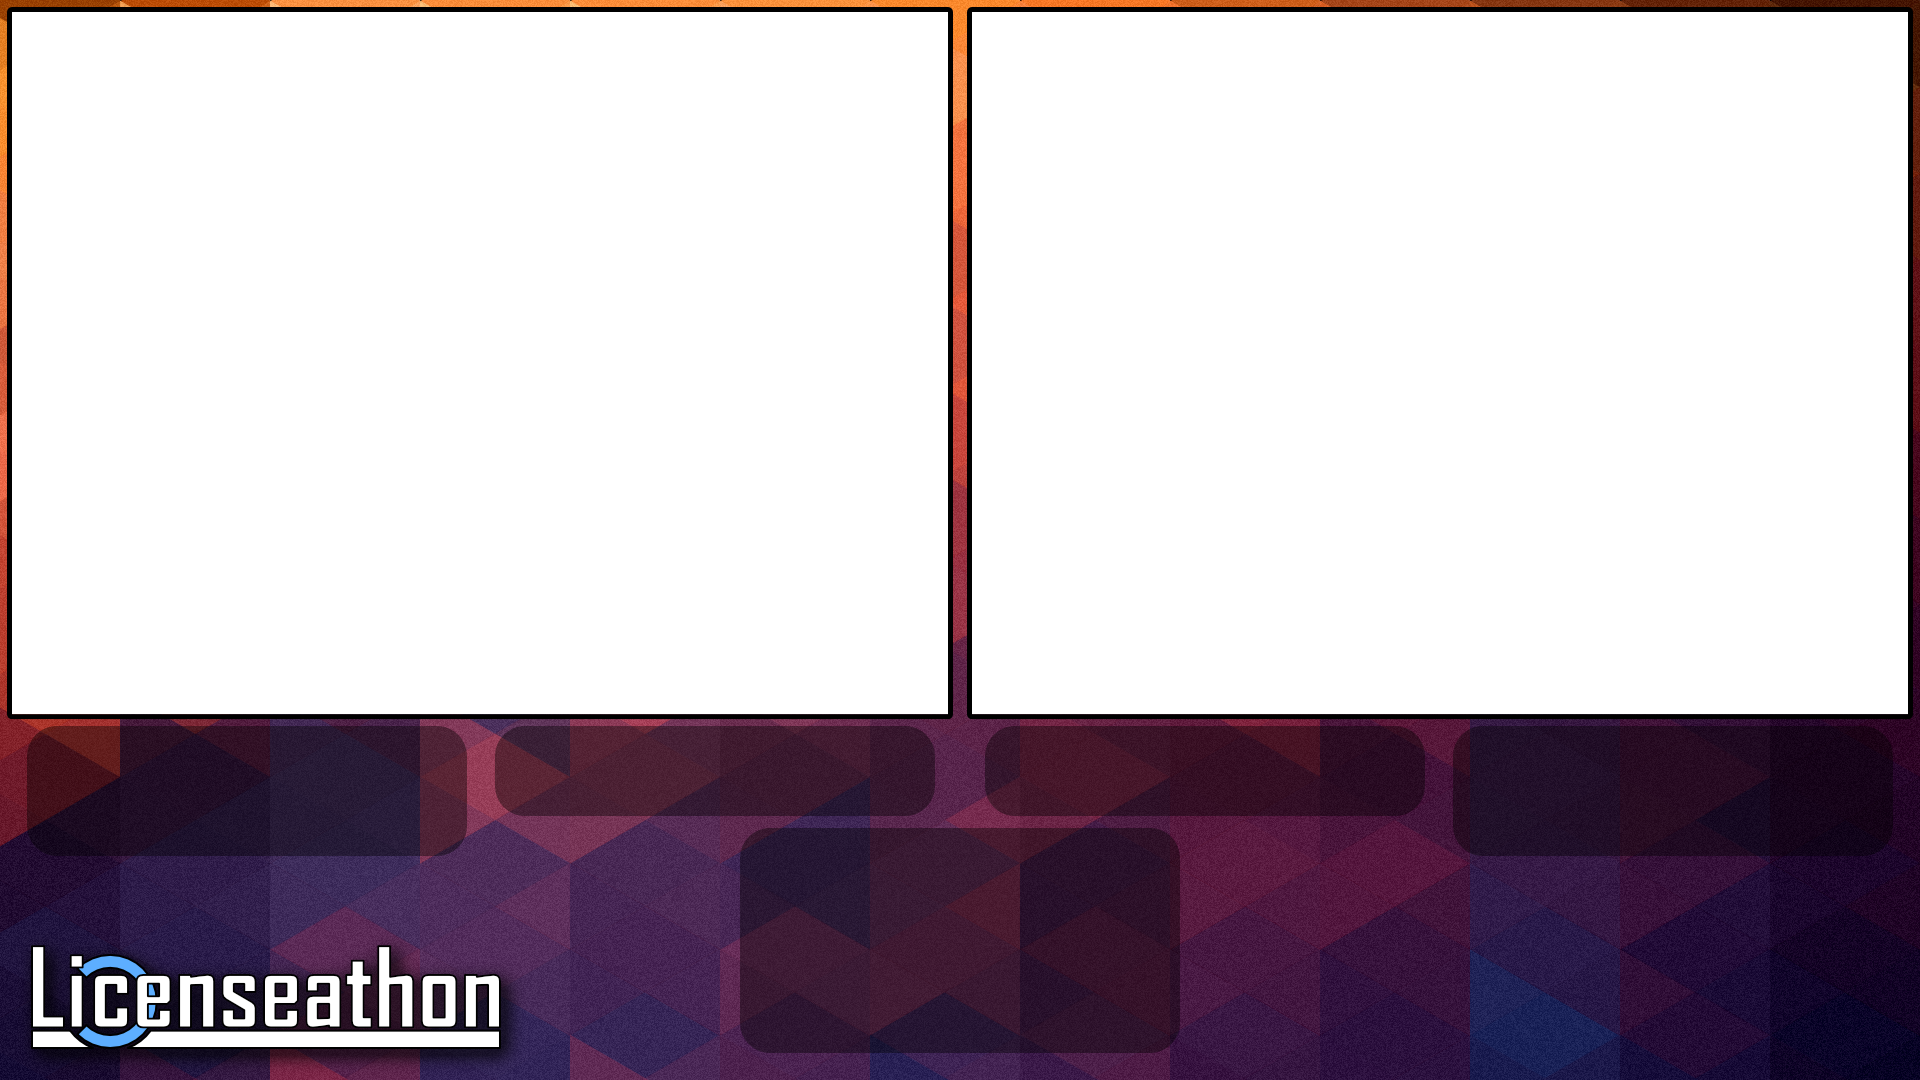
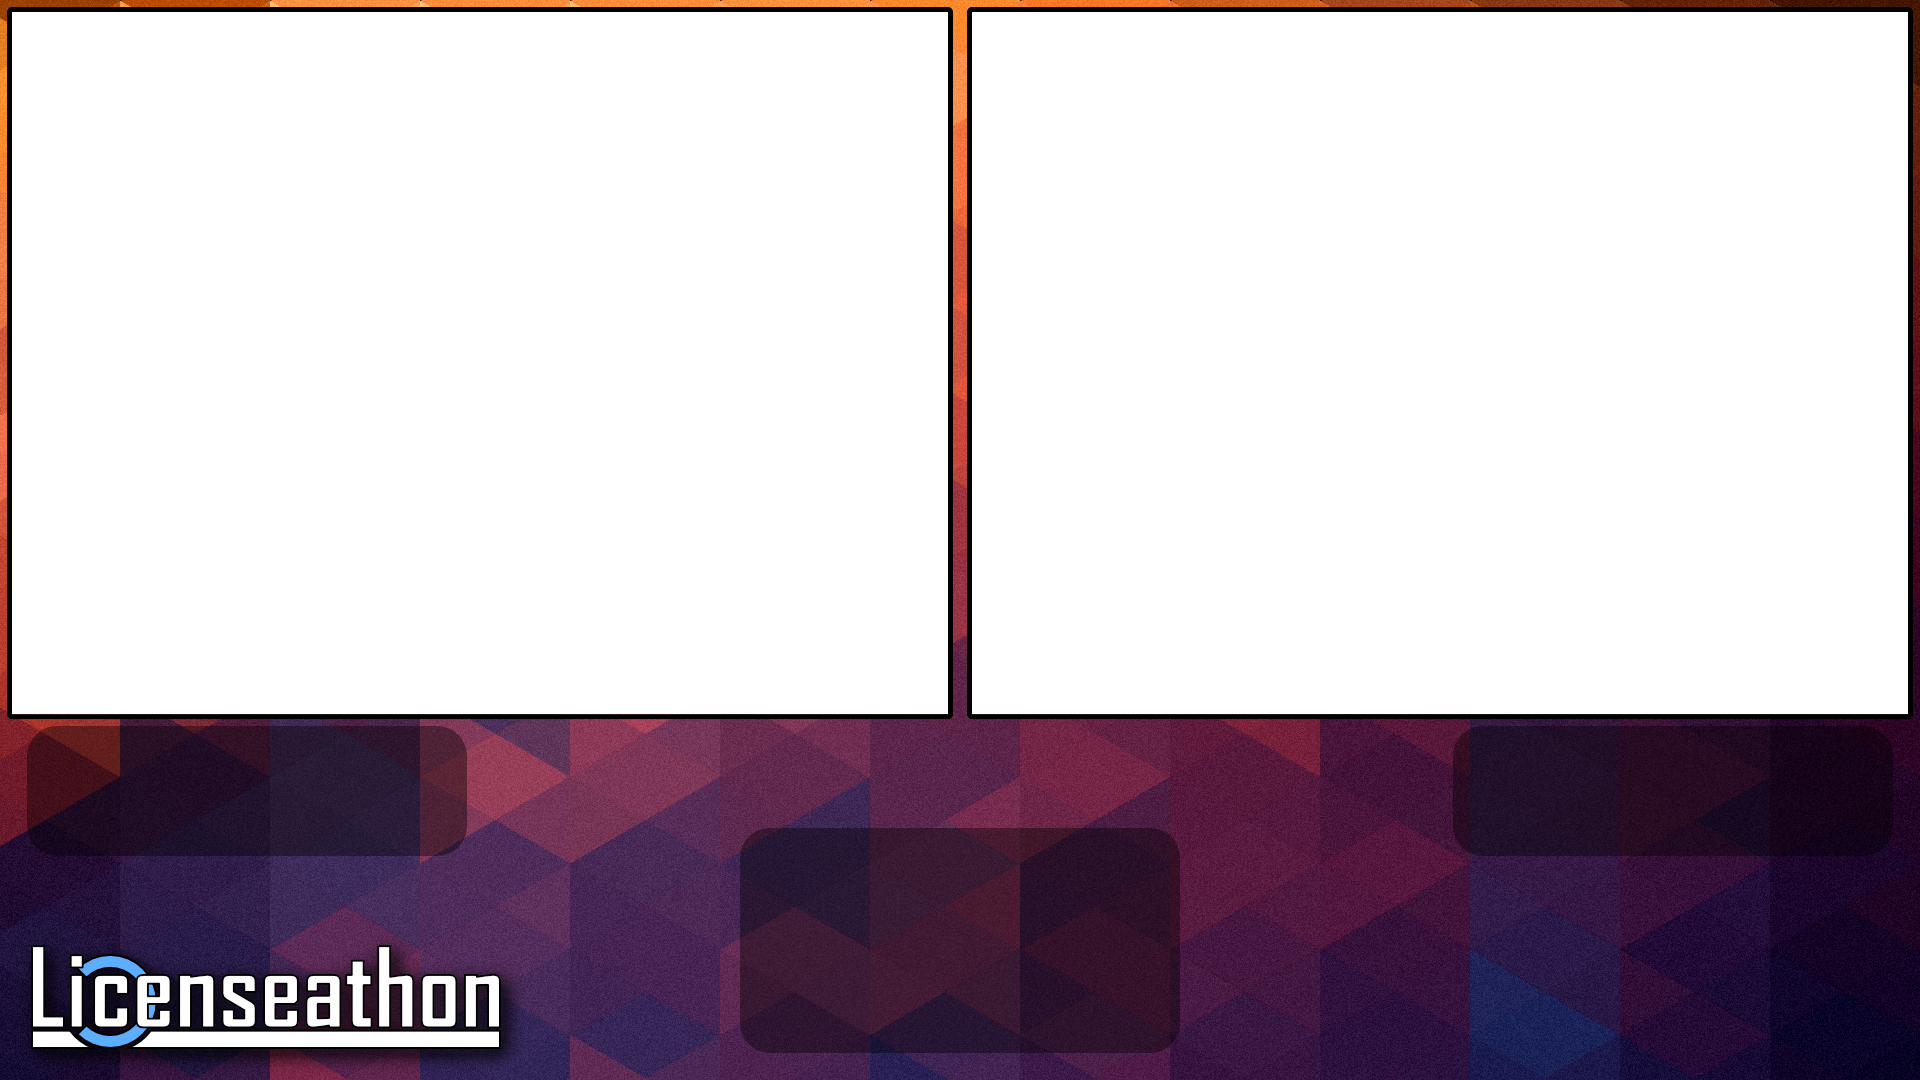
Update race layouts to accommodate timer changes

Changed region(s): [[0.25, 0.6722, 0.75, 0.7639]]

diff --git a/graphics/css/layouts/3-player_special.css b/graphics/css/layouts/3-player_special.css
@@ -41,11 +41,16 @@
 
 /* Run information stuff. */
 #runInfoContainer {
-	position: absolute;
+	/* position: absolute; */
 	left: 745px;
 	top: 833px;
 	width: 430px;
 	height: 215px;
+
+	background: rgba(0, 0, 0, 0.5);
+	border-radius: 25px;
+	padding: 5px;
+	margin-inline-end: 5px
 }
 
 #gameTitle {
@@ -62,33 +67,60 @@
 	/* width: 50%; */
 }
 
+.timerContainer{
+	width: 210px;
+	height: 60px;
+	background: rgba(0, 0, 0, 0.5);
+	border-radius: 25px;
+	padding: 5px;
+}
+
 /* Timer stuff. */
 .timerContainer[timer-id="1"] {
 	position: absolute;
-	left: 410px;
-	top: 637px;
+	left: 405px;
+	top: 632px;
 	width: 222px;
 	height: 80px;
+	font-size: 64px;
 }
 
 .timerContainer[timer-id="2"] {
 	position: absolute;
-	left: 1048px;
-	top: 637px;
+	left: 1043px;
+	top: 632px;
 	width: 222px;
 	height: 80px;
+	font-size: 64px;
 }
 
 .timerContainer[timer-id="3"] {
 	position: absolute;
-	left: 1686px;
-	top: 637px;
+	left: 1681px;
+	top: 632px;
 	width: 222px;
 	height: 80px;
+	font-size: 64px;
 }
 
-.timerContainer .timer {
+#mainTimer{
+	/* position: absolute; */
+	height: 80px;
+	width: 430px;
+	/* top: 693px; */
+	bottom: 27px;
+	left: calc(50% + 225px);
+	margin-inline-start: 5px
+}
+
+#bottomPanel{
+	position: absolute;
+	top: 826px;
+	align-items: center;
+}
+
+/* .timerContainer .timer {
 	font-size: 64px;
 	width: 100%;
 	text-align: center;
-}
+} */

diff --git a/graphics/3-player_special.html b/graphics/3-player_special.html
@@ -42,13 +42,18 @@
 		</div>
 
 		<!-- Run information -->
-		<div id="runInfoContainer" class="flexContainer">
-			<div id="gameTitle" class="flexContainer"><!-- Game Name --></div>
-			<div id="categoryContainer" class="flexContainer">
-				<div id="gameCategory"><!-- Game Category --></div>
+		<div id="bottomPanel" class=flexContainer>
+			<div id="runInfoContainer" class="flexContainer">
+				<div id="gameTitle" class="flexContainer"><!-- Game Name --></div>
+				<div id="categoryContainer" class="flexContainer">
+					<div id="gameCategory"><!-- Game Category --></div>
+				</div>
+				<div id="estimateContainer" class="flexContainer">
+					<div id="gameEstimate" class="timer"><!-- Game Estimate --></div>
+				</div>
 			</div>
-			<div id="estimateContainer" class="flexContainer">
-				<div id="gameEstimate" class="timer"><!-- Game Estimate --></div>
+			<div id="mainTimer" class="timerContainer flexContainer">
+				<div class="timer"><!-- Timer --></div>
 			</div>
 		</div>
 		
@@ -63,6 +68,7 @@
 			<div timer-id="3" class="timerContainer flexContainer">
 				<div class="timer"><!-- Timer --></div>
 			</div>
+			
 		<!-- </div> -->
 
 	</body>

diff --git a/graphics/css/layouts/2-player_4-3.css b/graphics/css/layouts/2-player_4-3.css
@@ -54,21 +54,38 @@
 	/* width: 50%; */
 }
 
+.timerContainer{
+	width: 210px;
+	height: 60px;
+	background: rgba(0, 0, 0, 0.5);
+	border-radius: 25px;
+	padding: 5px;
+}
+
 /* Timer stuff. */
 .timerContainer[timer-id="1"] {
 	position: absolute;
-	left: 500px;
-	top: 731px;
-	width: 430px;
-	height: 80px;
+	left: calc(50% - 465px);
+	top: 726px;
+
+	font-size: 54px;
 }
 
 .timerContainer[timer-id="2"] {
 	position: absolute;
-	left: 990px;
-	top: 731px;
-	width: 430px;
+	right: calc(50% - 465px);
+	top: 726px;
+	font-size: 54px;
+}
+
+#mainTimer{
+	position: absolute;
 	height: 80px;
+	width: 430px;
+	background: rgba(0, 0, 0, 0.5);
+	border-radius: 25px;
+	padding: 5px;
+	top: 726px;
 }
 
 /* .timer {

diff --git a/graphics/css/layouts/2-player_16-9.css b/graphics/css/layouts/2-player_16-9.css
@@ -54,21 +54,37 @@
 	/* width: 50%; */
 }
 
+.timerContainer{
+	width: 210px;
+	height: 60px;
+	background: rgba(0, 0, 0, 0.5);
+	border-radius: 25px;
+	padding: 5px;
+}
+
 /* Timer stuff. */
 .timerContainer[timer-id="1"] {
 	position: absolute;
-	left: 500px;
-	top: 698px;
-	width: 430px;
-	height: 80px;
+	left: calc(50% - 465px);
+	top: 693px;
+	font-size: 54px;
 }
 
 .timerContainer[timer-id="2"] {
 	position: absolute;
-	left: 990px;
-	top: 698px;
-	width: 430px;
+	right: calc(50% - 465px);
+	top: 693px;
+	font-size: 54px;
+}
+
+#mainTimer{
+	position: absolute;
 	height: 80px;
+	width: 430px;
+	background: rgba(0, 0, 0, 0.5);
+	border-radius: 25px;
+	padding: 5px;
+	top: 693px;
 }
 
 /* .timer {

diff --git a/graphics/2-player_16-9.html b/graphics/2-player_16-9.html
@@ -53,6 +53,9 @@
 			<div timer-id="2" class="timerContainer flexContainer">
 				<div class="timer"><!-- Timer --></div>
 			</div>
+			<div id="mainTimer" class="timerContainer flexContainer">
+				<div class="timer"><!-- Timer --></div>
+			</div>
 		<!-- </div> -->
 
 	</body>

diff --git a/graphics/2-player_4-3.html b/graphics/2-player_4-3.html
@@ -53,6 +53,9 @@
 			<div timer-id="2" class="timerContainer flexContainer">
 				<div class="timer"><!-- Timer --></div>
 			</div>
+			<div id="mainTimer" class="timerContainer flexContainer">
+				<div class="timer"><!-- Timer --></div>
+			</div>
 		<!-- </div> -->
 
 	</body>
